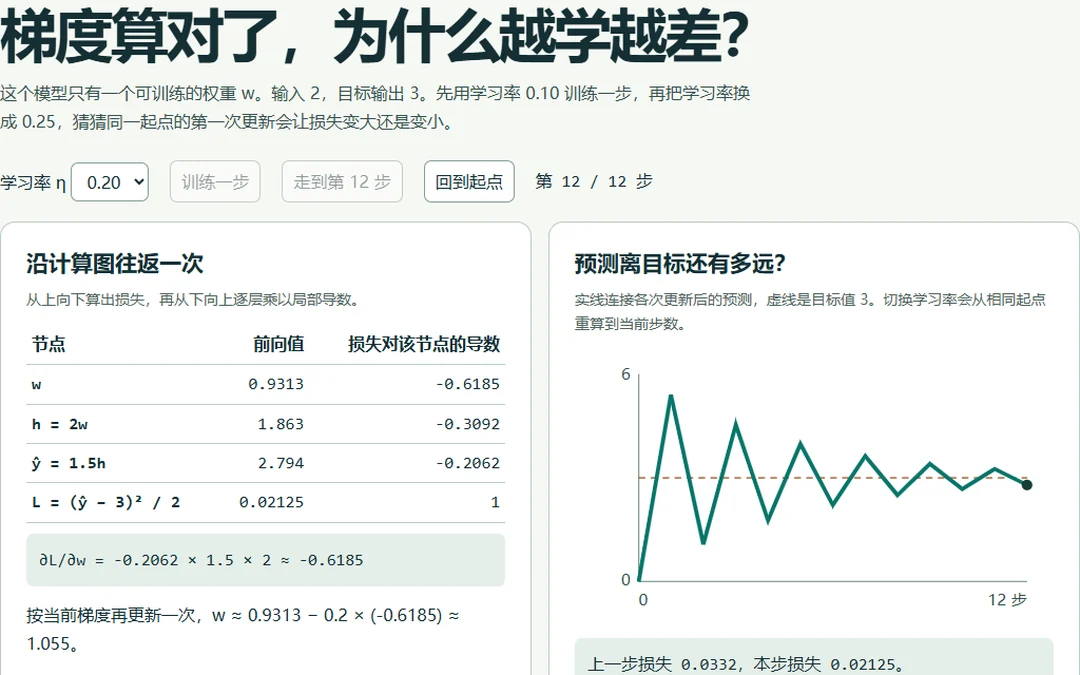
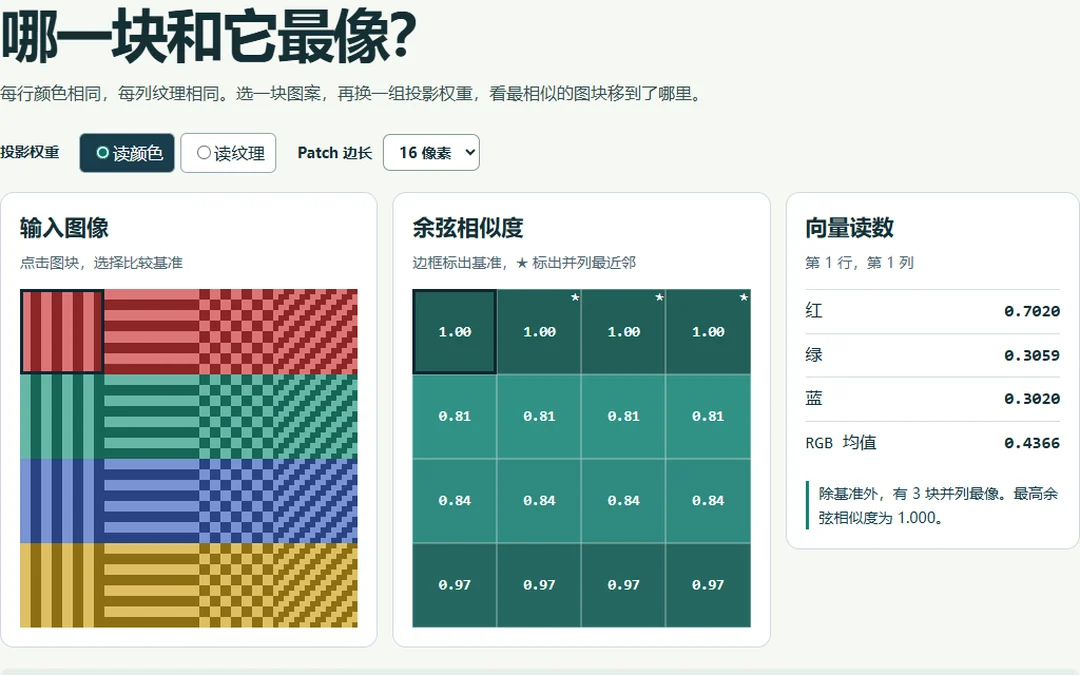
Show Patch Lens preview and feature merged open-source contribution

diff --git a/life/index.html b/life/index.html
@@ -10,7 +10,7 @@
   <meta property="og:type" content="website">
   <meta property="og:url" content="https://chenyueqi2024.github.io/life/">
   <link rel="icon" href="../assets/favicon.svg" type="image/svg+xml">
-  <link rel="stylesheet" href="../styles.css?v=20261120-previews">
+  <link rel="stylesheet" href="../styles.css?v=20261120-patch-pr">
   <script src="../script.js" defer></script>
   <title>Yueqi 的小天地 · 好奇心持续在线</title>
 </head>
@@ -43,8 +43,8 @@
       <div class="section-heading"><p class="eyebrow">MADE WITH CURIOSITY</p><h2 id="playground-title">脑洞有了，<br>那就动手做一个。</h2><p>写代码的快乐之一：一个小麻烦，真的可以变成一个小工具。</p></div>
       <article class="life-project slidepatch-project"><div class="project-copy"><span class="project-tag">给 PPT 换件衣服</span><h3>SlidePatch</h3><p>内容写好了，模板又换了？<br>把文字、图片和原生图表搬进新模板，保留继续编辑的自由。</p><p class="muted">这两张图是实际 PowerPoint 导出，内容为合成测试样例。</p><a class="button dark" href="https://github.com/ChenYueqi2024/SlidePatch">去看看它怎么做</a></div><div class="compare-demo"><div class="compare-frame"><img id="compare-image" src="../assets/slidepatch-after.webp" width="1280" height="720" alt="迁移后：正文采用蓝色学院模板，文字保持可编辑" loading="lazy"></div><div class="compare-controls" role="group" aria-label="切换 SlidePatch 迁移对比" hidden><button data-compare="before" aria-pressed="false">换装前</button><button data-compare="after" aria-pressed="true">换装后</button></div><p class="fine-print">同一份内容，两种样子。</p></div></article>
       <div class="life-project-pair"><article class="life-project wenji-project"><div class="project-copy"><span class="project-tag">给“我好像懂了”加个验证</span><h3>问迹 · Wenji</h3><p>课上先留下“为什么”，课后把答案接回原文。再试着独立答一次，看看这回是不是真的说得清。</p><p class="muted">Android 课堂疑问溯源与复习助手。</p><a class="text-link" href="https://github.com/ChenYueqi2024/wenji">看看项目与 APK</a></div><img class="phone-preview" src="../assets/wenji-home.webp" width="360" height="640" alt="问迹 Android 应用的首页运行截图，包含模型入口与疑问记录" loading="lazy"></article><article class="life-project memory-project"><span class="project-tag">给新会话递一张小纸条</span><h3>dsh-memory</h3><div class="chat-demo" aria-label="项目功能示意"><p>我：这个项目用 pnpm。</p><span>换一个会话之后……</span><p>项目记忆：这条约定，我记着。</p></div><p>为 DeepSeek Harness 保存工作区约定、决策与偏好，让同一个项目的新会话接上上下文。</p><a class="text-link" href="https://chenyueqi2024.github.io/dsh-memory/">试读这张小纸条</a></article></div>
-      <div class="mini-projects" id="small-projects"><h3>把好奇心，做成可以玩的项目。</h3><p class="muted">学模型、玩几何、查数据，再给作品做个隐私检查。四个项目，都可以打开网页试一试。</p><div class="mini-project-grid"><article class="mini-project"><span class="small-label">INTERACTIVE · ML / DL</span><h4>Model Mechanics</h4><figure class="mini-project-preview"><img src="../assets/model-mechanics-preview.webp" width="1080" height="675" alt="反向传播实验：调节学习率，观察预测值逐步接近目标的训练曲线" loading="lazy" decoding="async"><figcaption>改一改学习率，看训练曲线怎样变化。</figcaption></figure><p class="mini-project-subtitle">模型的原理，也可以亲手拨一拨。</p><p>给机器学习和深度学习初学者的 19 个交互实验。从分词、注意力到反向传播，改一改参数，看看模型里面究竟发生了什么。</p><div class="mini-project-links"><a class="text-link" href="https://chenyueqi2024.github.io/model-mechanics/">打开机器学习实验</a><a class="text-link" href="https://github.com/ChenYueqi2024/model-mechanics">源码</a></div></article><article class="mini-project"><span class="small-label">INTERACTIVE · v0.4</span><h4>视角游乐场</h4><figure class="mini-project-preview"><img src="../assets/viewpoint-playground-preview.webp" width="1080" height="675" alt="星星观测站与左右相机画面、视差标尺并排显示" loading="lazy" decoding="async"><figcaption>拖动星星，联动观察双目画面与视差。</figcaption></figure><p class="mini-project-subtitle">让相机换个站位。</p><p>边拖星星，边看画面和读数。有三枚徽章可点亮；沿着图文导览，还能从双目几何逛到 VGGT、3D 生成与世界模型。</p><div class="mini-project-links"><a class="text-link" href="https://chenyueqi2024.github.io/viewpoint-playground/">打开互动实验</a><a class="text-link" href="https://github.com/ChenYueqi2024/viewpoint-playground">源码</a></div></article><article class="mini-project"><span class="small-label">BROWSER + PYTHON · v0.2</span><h4>多视角数据体检</h4><figure class="mini-project-preview"><img src="../assets/multiview-check-preview.webp" width="1080" height="675" alt="合成数据检查报告：显示错误数量、图像尺寸不一致和相机旋转矩阵异常" loading="lazy" decoding="async"><figcaption>尺寸不对、相机位姿异常，逐项定位。</figcaption></figure><p class="mini-project-subtitle">模型开跑前，先量个体温。</p><p>少一张图、错一个尺寸，实验就可能绕远路。现在打开网页就能检查：选好文件，把可疑之处圈出来，材料留在自己电脑上。</p><div class="mini-project-links"><a class="text-link" href="https://chenyueqi2024.github.io/multiview-check/">打开浏览器体检</a><a class="text-link" href="https://github.com/ChenYueqi2024/multiview-check">源码</a></div></article><article class="mini-project"><span class="small-label">BROWSER + SKILL · v0.4</span><h4>公开之前</h4><figure class="mini-project-preview"><img src="../assets/before-public-preview.webp" width="1080" height="675" alt="合成材料隐私检查报告：显示敏感词、姓名和手机号候选的位置，不展示匹配原文" loading="lazy" decoding="async"><figcaption>找到敏感信息的位置，不展示匹配原文。</figcaption></figure><p class="mini-project-subtitle">给发布按钮加一点从容。</p><p>扫描 PDF 和图片里的文字，也能在本机 OCR 检查了。找找姓名、号码、密钥候选与图片 GPS；push 前还能叫上同名 skill。</p><div class="mini-project-links"><a class="text-link" href="https://chenyueqi2024.github.io/before-public/">打开浏览器检查</a><a class="text-link" href="https://github.com/ChenYueqi2024/before-public">源码</a></div></article></div><p class="fine-print">持续迭代 · 在线示例采用合成数据；浏览器检查与本地工具均不上传文件。欢迎从 README 了解功能范围、运行方法与当前限制。</p></div>
-      <div class="open-source-note"><span class="open-braces" aria-hidden="true">{ }</span><div><h3>好用的东西，希望也能对你有用。</h3><p>除了做自己的项目，我也向 fsspec、PEtab、pyinfra 提交了缺陷修复 PR。在他人的代码里学习，再把一小块改进交还给社区。</p><div class="inline-links"><a href="https://github.com/fsspec/filesystem_spec/pull/2465">fsspec #2465</a><a href="https://github.com/PEtab-dev/libpetab-python/pull/612">PEtab #612</a><a href="https://github.com/pyinfra-dev/pyinfra/pull/2090">pyinfra #2090</a></div><p class="fine-print">三条 PR 截至 2026.11.20 均为 Open，尚未合并。欢迎去看最新进展。</p></div></div>
+      <div class="mini-projects" id="small-projects"><h3>把好奇心，做成可以玩的项目。</h3><p class="muted">学模型、玩几何、查数据，再给作品做个隐私检查。四个项目，都可以打开网页试一试。</p><div class="mini-project-grid"><article class="mini-project"><span class="small-label">INTERACTIVE · ML / DL</span><h4>Model Mechanics</h4><figure class="mini-project-preview"><img src="../assets/model-mechanics-preview.webp?v=patch-lens" width="1080" height="675" alt="Patch Lens 实验：彩色纹理图块、余弦相似度矩阵与所选图块的向量读数" loading="lazy" decoding="async"><figcaption>选一块图案，看模型如何比较颜色与纹理。</figcaption></figure><p class="mini-project-subtitle">模型的原理，也可以亲手拨一拨。</p><p>给机器学习和深度学习初学者的 19 个交互实验。从分词、注意力到反向传播，改一改参数，看看模型里面究竟发生了什么。</p><div class="mini-project-links"><a class="text-link" href="https://chenyueqi2024.github.io/model-mechanics/">打开机器学习实验</a><a class="text-link" href="https://github.com/ChenYueqi2024/model-mechanics">源码</a></div></article><article class="mini-project"><span class="small-label">INTERACTIVE · v0.4</span><h4>视角游乐场</h4><figure class="mini-project-preview"><img src="../assets/viewpoint-playground-preview.webp" width="1080" height="675" alt="星星观测站与左右相机画面、视差标尺并排显示" loading="lazy" decoding="async"><figcaption>拖动星星，联动观察双目画面与视差。</figcaption></figure><p class="mini-project-subtitle">让相机换个站位。</p><p>边拖星星，边看画面和读数。有三枚徽章可点亮；沿着图文导览，还能从双目几何逛到 VGGT、3D 生成与世界模型。</p><div class="mini-project-links"><a class="text-link" href="https://chenyueqi2024.github.io/viewpoint-playground/">打开互动实验</a><a class="text-link" href="https://github.com/ChenYueqi2024/viewpoint-playground">源码</a></div></article><article class="mini-project"><span class="small-label">BROWSER + PYTHON · v0.2</span><h4>多视角数据体检</h4><figure class="mini-project-preview"><img src="../assets/multiview-check-preview.webp" width="1080" height="675" alt="合成数据检查报告：显示错误数量、图像尺寸不一致和相机旋转矩阵异常" loading="lazy" decoding="async"><figcaption>尺寸不对、相机位姿异常，逐项定位。</figcaption></figure><p class="mini-project-subtitle">模型开跑前，先量个体温。</p><p>少一张图、错一个尺寸，实验就可能绕远路。现在打开网页就能检查：选好文件，把可疑之处圈出来，材料留在自己电脑上。</p><div class="mini-project-links"><a class="text-link" href="https://chenyueqi2024.github.io/multiview-check/">打开浏览器体检</a><a class="text-link" href="https://github.com/ChenYueqi2024/multiview-check">源码</a></div></article><article class="mini-project"><span class="small-label">BROWSER + SKILL · v0.4</span><h4>公开之前</h4><figure class="mini-project-preview"><img src="../assets/before-public-preview.webp" width="1080" height="675" alt="合成材料隐私检查报告：显示敏感词、姓名和手机号候选的位置，不展示匹配原文" loading="lazy" decoding="async"><figcaption>找到敏感信息的位置，不展示匹配原文。</figcaption></figure><p class="mini-project-subtitle">给发布按钮加一点从容。</p><p>扫描 PDF 和图片里的文字，也能在本机 OCR 检查了。找找姓名、号码、密钥候选与图片 GPS；push 前还能叫上同名 skill。</p><div class="mini-project-links"><a class="text-link" href="https://chenyueqi2024.github.io/before-public/">打开浏览器检查</a><a class="text-link" href="https://github.com/ChenYueqi2024/before-public">源码</a></div></article></div><p class="fine-print">持续迭代 · 在线示例采用合成数据；浏览器检查与本地工具均不上传文件。欢迎从 README 了解功能范围、运行方法与当前限制。</p></div>
+      <div class="open-source-note"><span class="open-braces" aria-hidden="true">{ }</span><div><h3>好用的东西，希望也能对你有用。</h3><p>在他人的代码里学习，再把一小块改进交还给社区。有一块补丁，已经成为了项目的一部分。</p><article class="merged-contribution"><span class="small-label">已合并 · 2026.11.16</span><h4><a href="https://github.com/gajus/eslint-plugin-jsdoc/pull/1848">eslint-plugin-jsdoc #1848</a></h4><p>修复 JSDoc 注释转换中的提前闭合问题，避免自动修复把合法 JavaScript 变成语法错误。</p></article><p>也在继续跟进 fsspec、PEtab、pyinfra 的缺陷修复：</p><div class="inline-links"><a href="https://github.com/fsspec/filesystem_spec/pull/2465">fsspec #2465</a><a href="https://github.com/PEtab-dev/libpetab-python/pull/612">PEtab #612</a><a href="https://github.com/pyinfra-dev/pyinfra/pull/2090">pyinfra #2090</a></div><p class="fine-print">上面三条仍为 Open，状态核对于 2026.11.20。欢迎去看最新进展。</p></div></div>
     </div></section>
     <section class="section-wrap section-space" id="stories" aria-labelledby="stories-title"><div class="section-heading"><p class="eyebrow">LIFE OUTSIDE THE EDITOR</p><h2 id="stories-title">关掉编辑器，<br>还有这些故事。</h2><p>全面发展这四个字，落在生活里，是一件件具体的小事。</p></div>
       <div class="life-story-grid">

diff --git a/academic/index.html b/academic/index.html
@@ -10,7 +10,7 @@
   <meta property="og:type" content="website">
   <meta property="og:url" content="https://chenyueqi2024.github.io/academic/">
   <link rel="icon" href="../assets/favicon.svg" type="image/svg+xml">
-  <link rel="stylesheet" href="../styles.css?v=20261120-previews">
+  <link rel="stylesheet" href="../styles.css?v=20261120-patch-pr">
   <script src="../script.js" defer></script>
   <title>Yueqi Chen · 成长手记</title>
 </head>
@@ -71,8 +71,8 @@
           <article class="compact-project"><span class="small-label">KOTLIN · COMPOSE · PYTHON · SQLITE</span><h3>问迹 · Wenji</h3><p class="project-subtitle">让一个“为什么”，有迹可循。</p><p>记录课堂疑问，将解释关联到课程引用与资料版本，再通过独立作答复习。资料修订后，旧答案会进入待复核。</p><a class="text-link" href="https://github.com/ChenYueqi2024/wenji">项目与 APK</a></article>
           <article class="compact-project"><span class="small-label">TYPESCRIPT · CORDIS</span><h3>dsh-memory</h3><p class="project-subtitle">新会话，也能接住旧约定。</p><p>为 DeepSeek Harness 按工作区保存项目事实、决策和偏好，支持记忆更新与跨会话使用，让开发上下文有所延续。</p><a class="text-link" href="https://chenyueqi2024.github.io/dsh-memory/">网站与演示</a></article>
         </div>
-        <div class="mini-projects" id="small-projects"><h3>从问题出发，把想法做出来。</h3><p class="muted">从模型原理到视觉几何，再到数据与隐私检查，四个项目均提供浏览器体验和开源代码。</p><div class="mini-project-grid"><article class="mini-project"><span class="small-label">INTERACTIVE · ML / DL</span><h4>Model Mechanics</h4><figure class="mini-project-preview"><img src="../assets/model-mechanics-preview.webp" width="1080" height="675" alt="反向传播实验：调节学习率，观察预测值逐步接近目标的训练曲线" loading="lazy" decoding="async"><figcaption>改一改学习率，看训练曲线怎样变化。</figcaption></figure><p>面向机器学习与深度学习初学者的 19 个交互实验。涵盖分词、注意力、Transformer、反向传播、泛化与强化学习，通过可调参数与可视化结果理解模型机制。</p><div class="mini-project-links"><a class="text-link" href="https://chenyueqi2024.github.io/model-mechanics/">打开机器学习实验</a><a class="text-link" href="https://github.com/ChenYueqi2024/model-mechanics">源码</a></div></article><article class="mini-project"><span class="small-label">INTERACTIVE · v0.4</span><h4>视角游乐场</h4><figure class="mini-project-preview"><img src="../assets/viewpoint-playground-preview.webp" width="1080" height="675" alt="星星观测站与左右相机画面、视差标尺并排显示" loading="lazy" decoding="async"><figcaption>拖动星星，联动观察双目画面与视差。</figcaption></figure><p>固定观测站，边拖动边对照画面与指标。通过三个挑战理解双目几何，再用图文与论文导览探索 SfM、VGGT、3D 生成和世界模型。</p><div class="mini-project-links"><a class="text-link" href="https://chenyueqi2024.github.io/viewpoint-playground/">打开互动实验</a><a class="text-link" href="https://github.com/ChenYueqi2024/viewpoint-playground">源码</a></div></article><article class="mini-project"><span class="small-label">BROWSER + PYTHON · v0.2</span><h4>多视角数据体检</h4><figure class="mini-project-preview"><img src="../assets/multiview-check-preview.webp" width="1080" height="675" alt="合成数据检查报告：显示错误数量、图像尺寸不一致和相机旋转矩阵异常" loading="lazy" decoding="async"><figcaption>尺寸不对、相机位姿异常，逐项定位。</figcaption></figure><p>选择图像与清单，在浏览器内检查尺寸、内参、位姿与时间戳，生成报告与轨迹。文件不上传，也保留 Python 工具。</p><div class="mini-project-links"><a class="text-link" href="https://chenyueqi2024.github.io/multiview-check/">打开浏览器体检</a><a class="text-link" href="https://github.com/ChenYueqi2024/multiview-check">源码</a></div></article><article class="mini-project"><span class="small-label">BROWSER + SKILL · v0.4</span><h4>公开之前</h4><figure class="mini-project-preview"><img src="../assets/before-public-preview.webp" width="1080" height="675" alt="合成材料隐私检查报告：显示敏感词、姓名和手机号候选的位置，不展示匹配原文" loading="lazy" decoding="async"><figcaption>找到敏感信息的位置，不展示匹配原文。</figcaption></figure><p>浏览器与 skill 均支持扫描 PDF、图片文字的本地 OCR，筛查配置词、姓名字段、号码与密钥候选。保留 Word、图片 GPS 和 Git 暂存区／历史检查，不上传数据。</p><div class="mini-project-links"><a class="text-link" href="https://chenyueqi2024.github.io/before-public/">打开浏览器检查</a><a class="text-link" href="https://github.com/ChenYueqi2024/before-public">源码</a></div></article></div><p class="fine-print">持续迭代 · 在线示例采用合成数据；浏览器检查与本地工具均不上传文件。欢迎从 README 了解功能范围、运行方法与当前限制。</p></div>
-        <div class="contributions"><h3>也为已有的工具，修补一小块。</h3><p>在阅读他人的代码、定位问题和补充回归测试中学习开源协作。</p><ul class="pr-list"><li><span>fsspec</span><a href="https://github.com/fsspec/filesystem_spec/pull/2465">限制 HTTP 目录探测的读取量</a><span class="status">Open</span></li><li><span>PEtab</span><a href="https://github.com/PEtab-dev/libpetab-python/pull/612">对齐测量数据与模拟结果</a><span class="status">Open</span></li><li><span>pyinfra</span><a href="https://github.com/pyinfra-dev/pyinfra/pull/2090">支持 SSH Include 的多个路径</a><span class="status">Open</span></li></ul><p class="fine-print">PR 状态核对于 2026.11.20；最新进展请见各 PR 页面。</p></div>
+        <div class="mini-projects" id="small-projects"><h3>从问题出发，把想法做出来。</h3><p class="muted">从模型原理到视觉几何，再到数据与隐私检查，四个项目均提供浏览器体验和开源代码。</p><div class="mini-project-grid"><article class="mini-project"><span class="small-label">INTERACTIVE · ML / DL</span><h4>Model Mechanics</h4><figure class="mini-project-preview"><img src="../assets/model-mechanics-preview.webp?v=patch-lens" width="1080" height="675" alt="Patch Lens 实验：彩色纹理图块、余弦相似度矩阵与所选图块的向量读数" loading="lazy" decoding="async"><figcaption>选一块图案，看模型如何比较颜色与纹理。</figcaption></figure><p>面向机器学习与深度学习初学者的 19 个交互实验。涵盖分词、注意力、Transformer、反向传播、泛化与强化学习，通过可调参数与可视化结果理解模型机制。</p><div class="mini-project-links"><a class="text-link" href="https://chenyueqi2024.github.io/model-mechanics/">打开机器学习实验</a><a class="text-link" href="https://github.com/ChenYueqi2024/model-mechanics">源码</a></div></article><article class="mini-project"><span class="small-label">INTERACTIVE · v0.4</span><h4>视角游乐场</h4><figure class="mini-project-preview"><img src="../assets/viewpoint-playground-preview.webp" width="1080" height="675" alt="星星观测站与左右相机画面、视差标尺并排显示" loading="lazy" decoding="async"><figcaption>拖动星星，联动观察双目画面与视差。</figcaption></figure><p>固定观测站，边拖动边对照画面与指标。通过三个挑战理解双目几何，再用图文与论文导览探索 SfM、VGGT、3D 生成和世界模型。</p><div class="mini-project-links"><a class="text-link" href="https://chenyueqi2024.github.io/viewpoint-playground/">打开互动实验</a><a class="text-link" href="https://github.com/ChenYueqi2024/viewpoint-playground">源码</a></div></article><article class="mini-project"><span class="small-label">BROWSER + PYTHON · v0.2</span><h4>多视角数据体检</h4><figure class="mini-project-preview"><img src="../assets/multiview-check-preview.webp" width="1080" height="675" alt="合成数据检查报告：显示错误数量、图像尺寸不一致和相机旋转矩阵异常" loading="lazy" decoding="async"><figcaption>尺寸不对、相机位姿异常，逐项定位。</figcaption></figure><p>选择图像与清单，在浏览器内检查尺寸、内参、位姿与时间戳，生成报告与轨迹。文件不上传，也保留 Python 工具。</p><div class="mini-project-links"><a class="text-link" href="https://chenyueqi2024.github.io/multiview-check/">打开浏览器体检</a><a class="text-link" href="https://github.com/ChenYueqi2024/multiview-check">源码</a></div></article><article class="mini-project"><span class="small-label">BROWSER + SKILL · v0.4</span><h4>公开之前</h4><figure class="mini-project-preview"><img src="../assets/before-public-preview.webp" width="1080" height="675" alt="合成材料隐私检查报告：显示敏感词、姓名和手机号候选的位置，不展示匹配原文" loading="lazy" decoding="async"><figcaption>找到敏感信息的位置，不展示匹配原文。</figcaption></figure><p>浏览器与 skill 均支持扫描 PDF、图片文字的本地 OCR，筛查配置词、姓名字段、号码与密钥候选。保留 Word、图片 GPS 和 Git 暂存区／历史检查，不上传数据。</p><div class="mini-project-links"><a class="text-link" href="https://chenyueqi2024.github.io/before-public/">打开浏览器检查</a><a class="text-link" href="https://github.com/ChenYueqi2024/before-public">源码</a></div></article></div><p class="fine-print">持续迭代 · 在线示例采用合成数据；浏览器检查与本地工具均不上传文件。欢迎从 README 了解功能范围、运行方法与当前限制。</p></div>
+        <div class="contributions"><h3>也为已有的工具，修补一小块。</h3><p>在阅读他人的代码、定位问题和补充回归测试中学习开源协作。</p><article class="merged-contribution"><span class="small-label">已合并 · 2026.11.16</span><h4><a href="https://github.com/gajus/eslint-plugin-jsdoc/pull/1848">eslint-plugin-jsdoc #1848</a></h4><p>修复 JSDoc 注释转换中的提前闭合问题，避免自动修复把合法 JavaScript 变成语法错误。</p></article><ul class="pr-list" aria-label="仍为 Open 的贡献"><li><span>fsspec</span><a href="https://github.com/fsspec/filesystem_spec/pull/2465">限制 HTTP 目录探测的读取量</a><span class="status">Open</span></li><li><span>PEtab</span><a href="https://github.com/PEtab-dev/libpetab-python/pull/612">对齐测量数据与模拟结果</a><span class="status">Open</span></li><li><span>pyinfra</span><a href="https://github.com/pyinfra-dev/pyinfra/pull/2090">支持 SSH Include 的多个路径</a><span class="status">Open</span></li></ul><p class="fine-print">其余 3 条 PR 截至 2026.11.20 仍为 Open；最新进展请见各 PR 页面。</p></div>
       </div>
     </section>
     <section class="section-wrap section-space" id="story" aria-labelledby="story-title">

diff --git a/styles.css b/styles.css
@@ -119,6 +119,9 @@ hr{height:1px;border:0;background:var(--line);margin:32px 0}
 @media(max-width:500px){.mini-project{padding:20px}.mini-project-preview{margin-bottom:18px}}
 .contributions{margin-top:64px;padding-top:40px;border-top:1px solid #cad6e2}
 .contributions>p{color:var(--muted)}
+.merged-contribution{margin:24px 0;padding:22px 24px;border-left:4px solid #6d43ab;border-radius:0 12px 12px 0;background:#f2ecfa}
+.merged-contribution h4{font-size:1.1rem;line-height:1.5;margin:0 0 10px;overflow-wrap:anywhere}
+.merged-contribution p:last-child{margin-bottom:0;color:var(--muted)}
 .pr-list{list-style:none;margin:24px 0 0;padding:0}
 .pr-list li{display:grid;grid-template-columns:100px 1fr 60px;align-items:center;gap:20px;padding:15px 0;border-bottom:1px solid #d7e1eb;font-size:.925rem}
 .pr-list li>span:first-child{font-weight:650}
